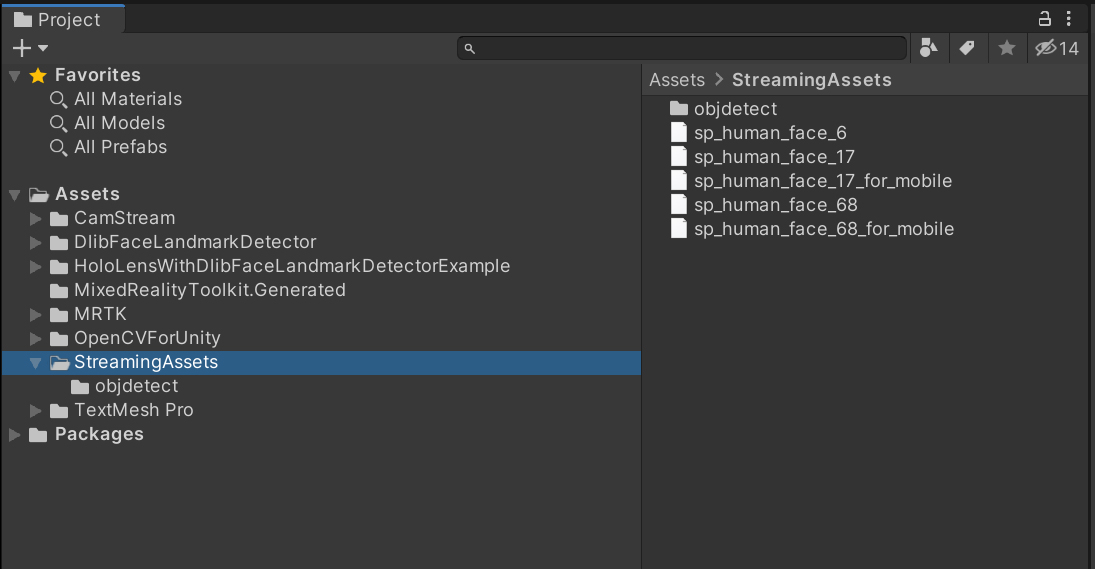
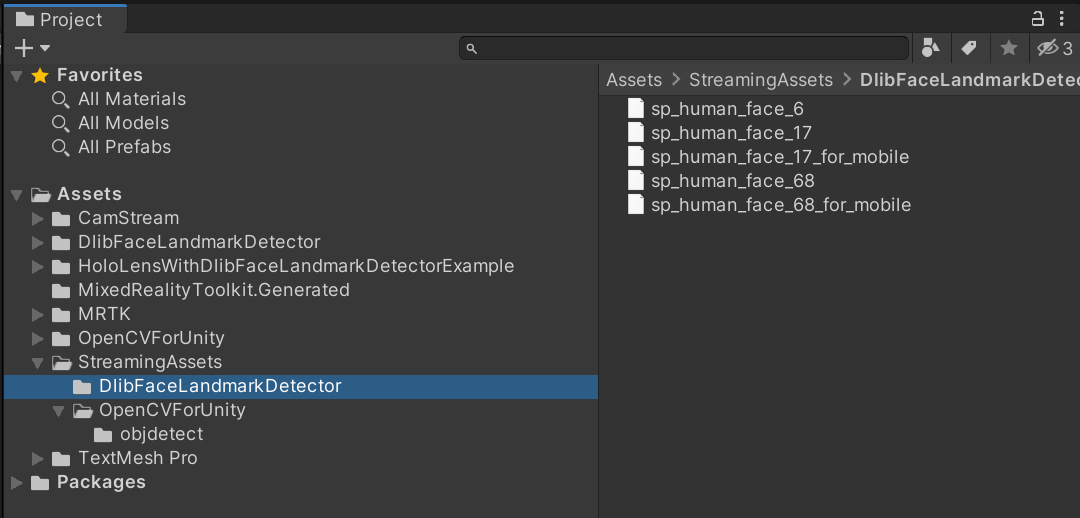
v1.0.6 update OpenCVForUnity version to 2.5.0. update DlibLandmarkDetector version to 1.3.4.

Changed region(s): [[0.0, 0.0, 0.6111, 0.9575], [0.3972, 0.0, 1.0, 0.4324]]

diff --git a/Assets/HoloLensWithDlibFaceLandmarkDetectorExample/HLARHeadExample/HLARHeadExample.cs b/Assets/HoloLensWithDlibFaceLandmarkDetectorExample/HLARHeadExample/HLARHeadExample.cs
@@ -295,7 +295,7 @@ namespace HoloLensWithDlibFaceLandmarkDetectorExample
         /// <summary>
         /// The dlib shape predictor file name.
         /// </summary>
-        string dlibShapePredictorFileName = "sp_human_face_68.dat";
+        string dlibShapePredictorFileName = "DlibFaceLandmarkDetector/sp_human_face_68.dat";
 
         /// <summary>
         /// The dlib shape predictor file path.
@@ -413,14 +413,14 @@ namespace HoloLensWithDlibFaceLandmarkDetectorExample
             dlibShapePredictorFilePath = DlibFaceLandmarkDetector.UnityUtils.Utils.getFilePath(dlibShapePredictorFileName);
             if (string.IsNullOrEmpty(dlibShapePredictorFilePath))
             {
-                Debug.LogError("shape predictor file does not exist. Please copy from “DlibFaceLandmarkDetector/StreamingAssets/” to “Assets/StreamingAssets/” folder. ");
+                Debug.LogError("shape predictor file does not exist. Please copy from “DlibFaceLandmarkDetector/StreamingAssets/DlibFaceLandmarkDetector/” to “Assets/StreamingAssets/DlibFaceLandmarkDetector/” folder. ");
             }
             faceLandmarkDetector = new FaceLandmarkDetector(dlibShapePredictorFilePath);
 
-            dlibShapePredictorFilePath = DlibFaceLandmarkDetector.UnityUtils.Utils.getFilePath("sp_human_face_6.dat");
+            dlibShapePredictorFilePath = DlibFaceLandmarkDetector.UnityUtils.Utils.getFilePath("DlibFaceLandmarkDetector/sp_human_face_6.dat");
             if (string.IsNullOrEmpty(dlibShapePredictorFilePath))
             {
-                Debug.LogError("shape predictor file does not exist. Please copy from “DlibFaceLandmarkDetector/StreamingAssets/” to “Assets/StreamingAssets/” folder. ");
+                Debug.LogError("shape predictor file does not exist. Please copy from “DlibFaceLandmarkDetector/StreamingAssets/DlibFaceLandmarkDetector/” to “Assets/StreamingAssets/DlibFaceLandmarkDetector/” folder. ");
             }
             faceLandmarkDetector4Thread = new FaceLandmarkDetector(dlibShapePredictorFilePath);
 
@@ -587,24 +587,24 @@ namespace HoloLensWithDlibFaceLandmarkDetectorExample
 
             //grayMat = new Mat();
             cascade = new CascadeClassifier();
-            cascade.load(Utils.getFilePath("objdetect/lbpcascade_frontalface.xml"));
+            cascade.load(Utils.getFilePath("OpenCVForUnity/objdetect/lbpcascade_frontalface.xml"));
 #if !WINDOWS_UWP || UNITY_EDITOR
             // "empty" method is not working on the UWP platform.
             if (cascade.empty())
             {
-                Debug.LogError("cascade file is not loaded. Please copy from “OpenCVForUnity/StreamingAssets/objdetect/” to “Assets/StreamingAssets/objdetect/” folder. ");
+                Debug.LogError("cascade file is not loaded. Please copy from “OpenCVForUnity/StreamingAssets/OpenCVForUnity/objdetect/” to “Assets/StreamingAssets/OpenCVForUnity/objdetect/” folder. ");
             }
 #endif
 
             grayMat4Thread = new Mat();
             cascade4Thread = new CascadeClassifier();
-            //cascade4Thread.load(Utils.getFilePath("objdetect/haarcascade_frontalface_alt.xml"));
-            cascade4Thread.load(Utils.getFilePath("objdetect/lbpcascade_frontalface.xml"));
+            //cascade4Thread.load(Utils.getFilePath("OpenCVForUnity/objdetect/haarcascade_frontalface_alt.xml"));
+            cascade4Thread.load(Utils.getFilePath("OpenCVForUnity/objdetect/lbpcascade_frontalface.xml"));
 #if !WINDOWS_UWP || UNITY_EDITOR
             // "empty" method is not working on the UWP platform.
             if (cascade4Thread.empty())
             {
-                Debug.LogError("cascade file is not loaded. Please copy from “OpenCVForUnity/StreamingAssets/objdetect/” to “Assets/StreamingAssets/objdetect/” folder. ");
+                Debug.LogError("cascade file is not loaded. Please copy from “OpenCVForUnity/StreamingAssets/OpenCVForUnity/objdetect/” to “Assets/StreamingAssets/OpenCVForUnity/objdetect/” folder. ");
             }
 #endif
         }
@@ -1583,7 +1583,7 @@ namespace HoloLensWithDlibFaceLandmarkDetectorExample
         /// </summary>
         public void OnChangeCameraButtonClick()
         {
-            webCamTextureToMatHelper.requestedIsFrontFacing = !webCamTextureToMatHelper.IsFrontFacing();
+            webCamTextureToMatHelper.requestedIsFrontFacing = !webCamTextureToMatHelper.requestedIsFrontFacing;
         }
 
         /// <summary>

diff --git a/Assets/HoloLensWithDlibFaceLandmarkDetectorExample/HLFaceLandmarkDetectionExample/HLFaceLandmarkDetectionExample.cs b/Assets/HoloLensWithDlibFaceLandmarkDetectorExample/HLFaceLandmarkDetectionExample/HLFaceLandmarkDetectionExample.cs
@@ -124,7 +124,7 @@ namespace HoloLensWithDlibFaceLandmarkDetectorExample
         /// <summary>
         /// The dlib shape predictor file name.
         /// </summary>
-        string dlibShapePredictorFileName = "sp_human_face_68.dat";
+        string dlibShapePredictorFileName = "DlibFaceLandmarkDetector/sp_human_face_68.dat";
 
         /// <summary>
         /// The dlib shape predictor file path.
@@ -239,15 +239,15 @@ namespace HoloLensWithDlibFaceLandmarkDetectorExample
             dlibShapePredictorFilePath = DlibFaceLandmarkDetector.UnityUtils.Utils.getFilePath(dlibShapePredictorFileName);
             if (string.IsNullOrEmpty(dlibShapePredictorFilePath))
             {
-                Debug.LogError("shape predictor file does not exist. Please copy from “DlibFaceLandmarkDetector/StreamingAssets/” to “Assets/StreamingAssets/” folder. ");
+                Debug.LogError("shape predictor file does not exist. Please copy from “DlibFaceLandmarkDetector/StreamingAssets/DlibFaceLandmarkDetector/” to “Assets/StreamingAssets/DlibFaceLandmarkDetector/” folder. ");
             }
             faceLandmarkDetector = new FaceLandmarkDetector(dlibShapePredictorFilePath);
 
 
-            dlibShapePredictorFilePath = DlibFaceLandmarkDetector.UnityUtils.Utils.getFilePath("sp_human_face_6.dat");
+            dlibShapePredictorFilePath = DlibFaceLandmarkDetector.UnityUtils.Utils.getFilePath("DlibFaceLandmarkDetector/sp_human_face_6.dat");
             if (string.IsNullOrEmpty(dlibShapePredictorFilePath))
             {
-                Debug.LogError("shape predictor file does not exist. Please copy from “DlibFaceLandmarkDetector/StreamingAssets/” to “Assets/StreamingAssets/” folder. ");
+                Debug.LogError("shape predictor file does not exist. Please copy from “DlibFaceLandmarkDetector/StreamingAssets/DlibFaceLandmarkDetector/” to “Assets/StreamingAssets/DlibFaceLandmarkDetector/” folder. ");
             }
             faceLandmarkDetector4Thread = new FaceLandmarkDetector(dlibShapePredictorFilePath);
         }
@@ -307,24 +307,24 @@ namespace HoloLensWithDlibFaceLandmarkDetectorExample
 
 
             cascade = new CascadeClassifier();
-            cascade.load(Utils.getFilePath("objdetect/lbpcascade_frontalface.xml"));
+            cascade.load(Utils.getFilePath("OpenCVForUnity/objdetect/lbpcascade_frontalface.xml"));
 #if !WINDOWS_UWP || UNITY_EDITOR
             // "empty" method is not working on the UWP platform.
             if (cascade.empty())
             {
-                Debug.LogError("cascade file is not loaded. Please copy from “OpenCVForUnity/StreamingAssets/objdetect/” to “Assets/StreamingAssets/objdetect/” folder. ");
+                Debug.LogError("cascade file is not loaded. Please copy from “OpenCVForUnity/StreamingAssets/OpenCVForUnity/objdetect/” to “Assets/StreamingAssets/OpenCVForUnity/objdetect/” folder. ");
             }
 #endif
 
             grayMat4Thread = new Mat();
             cascade4Thread = new CascadeClassifier();
-            //cascade4Thread.load(Utils.getFilePath("objdetect/haarcascade_frontalface_alt.xml"));
-            cascade4Thread.load(Utils.getFilePath("objdetect/lbpcascade_frontalface.xml"));
+            //cascade4Thread.load(Utils.getFilePath("OpenCVForUnity/objdetect/haarcascade_frontalface_alt.xml"));
+            cascade4Thread.load(Utils.getFilePath("OpenCVForUnity/objdetect/lbpcascade_frontalface.xml"));
 #if !WINDOWS_UWP || UNITY_EDITOR
             // "empty" method is not working on the UWP platform.
             if (cascade4Thread.empty())
             {
-                Debug.LogError("cascade file is not loaded. Please copy from “OpenCVForUnity/StreamingAssets/objdetect/” to “Assets/StreamingAssets/objdetect/” folder. ");
+                Debug.LogError("cascade file is not loaded. Please copy from “OpenCVForUnity/StreamingAssets/OpenCVForUnity/objdetect/” to “Assets/StreamingAssets/OpenCVForUnity/objdetect/” folder. ");
             }
 #endif
         }
@@ -1131,7 +1131,7 @@ namespace HoloLensWithDlibFaceLandmarkDetectorExample
         /// </summary>
         public void OnChangeCameraButtonClick()
         {
-            webCamTextureToMatHelper.requestedIsFrontFacing = !webCamTextureToMatHelper.IsFrontFacing();
+            webCamTextureToMatHelper.requestedIsFrontFacing = !webCamTextureToMatHelper.requestedIsFrontFacing;
         }
 
         /// <summary>

diff --git a/Assets/HoloLensWithDlibFaceLandmarkDetectorExample/HLPhotoCaptureExample/HLPhotoCaptureExample.cs b/Assets/HoloLensWithDlibFaceLandmarkDetectorExample/HLPhotoCaptureExample/HLPhotoCaptureExample.cs
@@ -38,7 +38,7 @@ namespace HoloLensWithDlibFaceLandmarkDetectorExample
         private uint numPhotos = 0;
 
         private FaceLandmarkDetector faceLandmarkDetector;
-        private string dlibShapePredictorFileName = "sp_human_face_68.dat";
+        private string dlibShapePredictorFileName = "DlibFaceLandmarkDetector/sp_human_face_68.dat";
         private string dlibShapePredictorFilePath;
 
         private IEnumerator Start()
@@ -48,7 +48,7 @@ namespace HoloLensWithDlibFaceLandmarkDetectorExample
             dlibShapePredictorFilePath = DlibFaceLandmarkDetector.UnityUtils.Utils.getFilePath(dlibShapePredictorFileName);
             if (string.IsNullOrEmpty(dlibShapePredictorFilePath))
             {
-                Debug.LogError("shape predictor file does not exist. Please copy from “DlibFaceLandmarkDetector/StreamingAssets/” to “Assets/StreamingAssets/” folder. ");
+                Debug.LogError("shape predictor file does not exist. Please copy from “DlibFaceLandmarkDetector/StreamingAssets/DlibFaceLandmarkDetector/” to “Assets/StreamingAssets/DlibFaceLandmarkDetector/” folder. ");
             }
             faceLandmarkDetector = new FaceLandmarkDetector(dlibShapePredictorFilePath);
 

diff --git a/Assets/HoloLensWithDlibFaceLandmarkDetectorExample/HoloLensWithDlibFaceLandmarkDetectorExample.cs b/Assets/HoloLensWithDlibFaceLandmarkDetectorExample/HoloLensWithDlibFaceLandmarkDetectorExample.cs
@@ -35,7 +35,7 @@ namespace HoloLensWithDlibFaceLandmarkDetectorExample
         {
             get
             {
-                return dlibShapePredictorName.ToString() + ".dat";
+                return "DlibFaceLandmarkDetector/" + dlibShapePredictorName.ToString() + ".dat";
             }
         }
 

diff --git a/README.md b/README.md
@@ -15,8 +15,8 @@
 * Visual Studio 2019
 * Unity 2019.4.31f1 / 2020.3.38f1
 * [Microsoft Mixed Reality Toolkit](https://github.com/Microsoft/MixedRealityToolkit-Unity/releases) v2.8.2  
-* [OpenCV for Unity](https://assetstore.unity.com/packages/tools/integration/opencv-for-unity-21088?aid=1011l4ehR) 2.4.9+ 
-* [Dlib FaceLandmarkDetector](https://assetstore.unity.com/packages/tools/integration/dlib-facelandmark-detector-64314?aid=1011l4ehR) 1.3.3+ 
+* [OpenCV for Unity](https://assetstore.unity.com/packages/tools/integration/opencv-for-unity-21088?aid=1011l4ehR) 2.5.0+ 
+* [Dlib FaceLandmarkDetector](https://assetstore.unity.com/packages/tools/integration/dlib-facelandmark-detector-64314?aid=1011l4ehR) 1.3.4+ 
 * [EnoxSoftware/HoloLensCameraStream](https://github.com/EnoxSoftware/HoloLensCameraStream)
 
 
@@ -25,11 +25,13 @@
 1. Create a new project. (`HoloLensWithDlibFaceLandmarkDetectorExample`)
     * Change the platform to `UWP` in the "Build Settings" window.
 1. Import the OpenCVForUnity.
-    * Setup the OpenCVForUnity. (Tools > OpenCV for Unity > Set Plugin Import Settings)
-    * Move the "OpenCVForUnity/StreamingAssets/objdetect/haarcascade_frontalface_alt.xml" and "OpenCVForUnity/StreamingAssets/objdetect/lbpcascade_frontalface.xml" to the "Assets/StreamingAssets/objdetect/" folder.
+    * Select MenuItem[Tools/OpenCV for Unity/Open Setup Tools].
+    * Click the [Move StreamingAssets Folder] button.
+    * Leave the following files and delete the rest. ("StreamingAssets/OpenCVForUnity/objdetect/haarcascade_frontalface_alt.xml", "lbpcascade_ frontalface.xml")
 1. Import the DlibFaceLandmarkDetector.
-    * Setup the OpenCVForUnity. (Tools > Dlib FaceLandmarkDetector > Set Plugin Import Settings)
-    * Move the "DlibFaceLandmarkDetector/StreamingAssets/sp_human_face_68.dat", "sp_human_face_68_for_mobile.dat", "sp_human_face_17.dat", "sp_human_face_17_for_mobile.dat" and "sp_human_face_6.dat" to the "Assets/StreamingAssets/" folder. 
+    * Select MenuItem[Tools/Dlib FaceLandmark Detector/Open Setup Tools].
+    * Click the [Move StreamingAssets Folder] button.
+    * Leave the following files and delete the rest. ("StreamingAssets/DlibFaceLandmarkDetector/sp_human_face_68.dat", "sp_human_face_68_for_mobile.dat", "sp_human_face_17.dat", "sp_human_face_17_for_mobile.dat" and "sp_human_face_6.dat")
 1. Clone HoloLensCameraStream repository.
[1 lines of base64/hex data omitted]
 1. Import the Microsoft Mixed Reality Toolkit. (Recommend using [MixedRealityFeatureTool](https://www.microsoft.com/en-us/download/details.aspx?id=102778))
